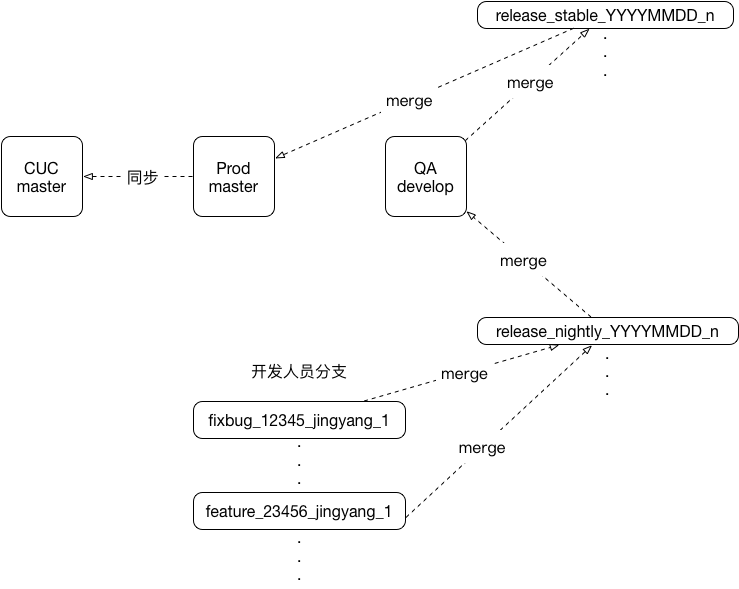
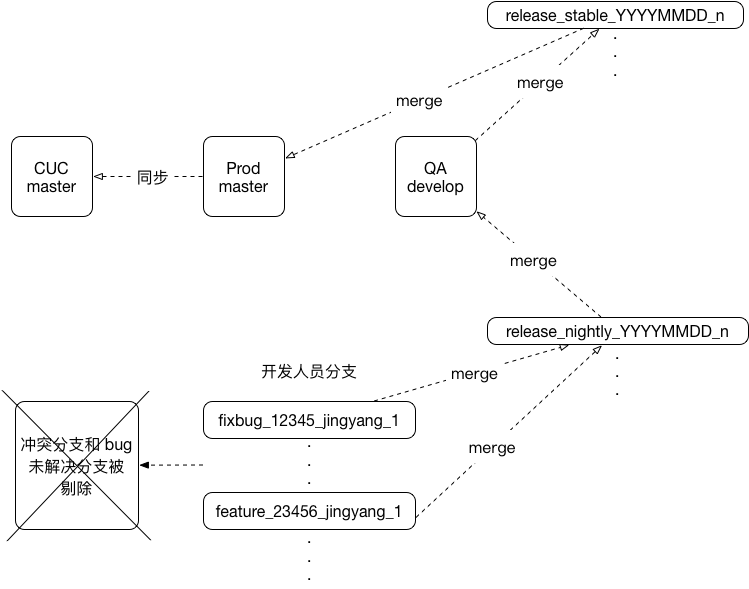
git

diff --git a/_posts/2017-12-21-git.md b/_posts/2017-12-21-git.md
@@ -18,7 +18,7 @@ description: Git 版本管理流程
   - 需求功能：`feature_bug单号_邮箱前缀_n`。
 
 ## 基本命令
-以下所有命令的开发分支号均以 `fixbug_12345_jingyang_1` 举例，合并均以合并到 `develop` 举例。
+以下所有命令的开发分支号均以`fixbug_12345_jingyang_1`举例，合并均以合并到 `develop` 举例。
 
 * 切换分支：`git checkout fixbug_12345_jingyang_1`
 * 建立新分支并切换到该分支：`git checkout –b fixbug_12345_jingyang_1`
@@ -30,22 +30,49 @@ description: Git 版本管理流程
 
 ## 基本思路
 * 开发人员分支：
-  - 从 `release 稳定分支` 签出新分支；
-  - 自测通过的分支会被合并到 `release 测试分支`（**合并专员不会合并有冲突的分支**）；
-  - 最终被合并的无冲突 `release 测试分支` 会合并到 `develop 分支`。
-* 测试（QA）环境：测试 `develop 分支`；
-  - 测试结束后重新合并一个 `release 测试分支`，剔除所有测试不通过的分支；
-  - 版本会合并到 `release 稳定分支`。
+  - 从`release 稳定分支`签出新分支；
+  - 自测通过的分支会被合并到`release 测试分支`（**合并专员不会合并有冲突的分支**）；
+  - 最终被合并的无冲突`release 测试分支`会合并到 `develop 分支`。
+* 测试（QA）环境：测试`develop 分支`；
+  - 测试结束后重新合并一个`release 测试分支`，剔除所有测试不通过的分支；
+  - 版本会合并到`release 稳定分支`。
 * 生产（Prod）环境：进行*冒烟测试*；
-  - 测试结束后重新合并一个 `release 稳定分支`，剔除所有测试不通过的分支；
-  - 通过的 `release 稳定分支` 会同步到局方环境；
+  - 测试结束后重新合并一个`release 稳定分支`，剔除所有测试不通过的分支；
+  - 通过的`release 稳定分支`会同步到局方环境；
 * 局方 CUC 环境：运行最终的 `release 稳定分支`。
 
 ![git.png](/images/jyjsjd/git.png)
 
 ## 注意事项
-* 合并 `release 测试分支` 过程中**不进行冲突合并**，遇到冲突即**丢弃**当前 release 测试分支并**另建**分支，保证合并的都是**无冲突**分支；
+* 合并`release 测试分支`过程中**不进行冲突合并**，遇到冲突即**丢弃**当前 release 测试分支并**另建**分支，保证合并的都是**无冲突**分支；
 * 整个代码管理过程中不进行*回滚操作*，只进行*合并操作*；
 * 开发人员未被合并的分支，将在下一次另建分支合并；
 * release 稳定版应保留**多个**历史版本；
 * 应在版本被推送到局方环境**之后**再考虑删除开发人员分支。
+
+## 场景
+以下场景均假设有最近稳定版本`release_stable_20171221_1`，修改 bug 编号`12345`.
+
+### 1、新建分支修改 bug
+* 拉取代码，确保获得最新版本：`git pull`；
+* 签出`release 稳定分支`分支：`git checkout release_stable_20171221_1`；
+* 在稳定分支基础上，新建自己的分支：`git checkout -b fixbug_12345_jingyang_1`；
+* 在自己的分支上修改代码，并提交。
+
+### 2、合并分支冲突
+合并过程中遇到冲突的分支将不会被合并。由于项目文件较多，冲突并不常见。如果遇有冲突，开发人员应该自己解决。
+
+以下设想了两种场景，但无论是哪种场景，开发人员都应该找到冲突原因，协商解决。
+* 如果今天还有合并分支的机会：找到冲突原因，协商解决，确保下次合并没有冲突；如果已经发布了新的稳定版本，合并稳定版本到自己的版本
+* 如果赶不上今天的合并：签出最新`release 稳定分支`，并合并到自己的分支中，确保代码是最新的。
+* 合并`release 稳定分支`到自己的分支：`git merge release_stable_20171221_1 fixbug_12345_jingyang_1`
+
+### 3、测试人员测试不通过
+* 放弃之前的分支`fixbug_12345_jingyang_1`；
+* 从最新的`release 稳定分支`签出新的分支：`git checkout -b fixbug_12345_jingyang_2`；
+* 把前一个分支合并到新分支 `git merge fixbug_12345_jingyang_1 fixbug_12345_jingyang_2`，并重新开始修改。
+
+### 4、局方测试不通过
+局方不通过时，通常代码已经被合并到最新`release 稳定分支`中。
+* 从最新`release 稳定分支`签出新分支：`git checkout -b fixbug_12345_jingyang_2`；
+* 在新分支上进行修改。
